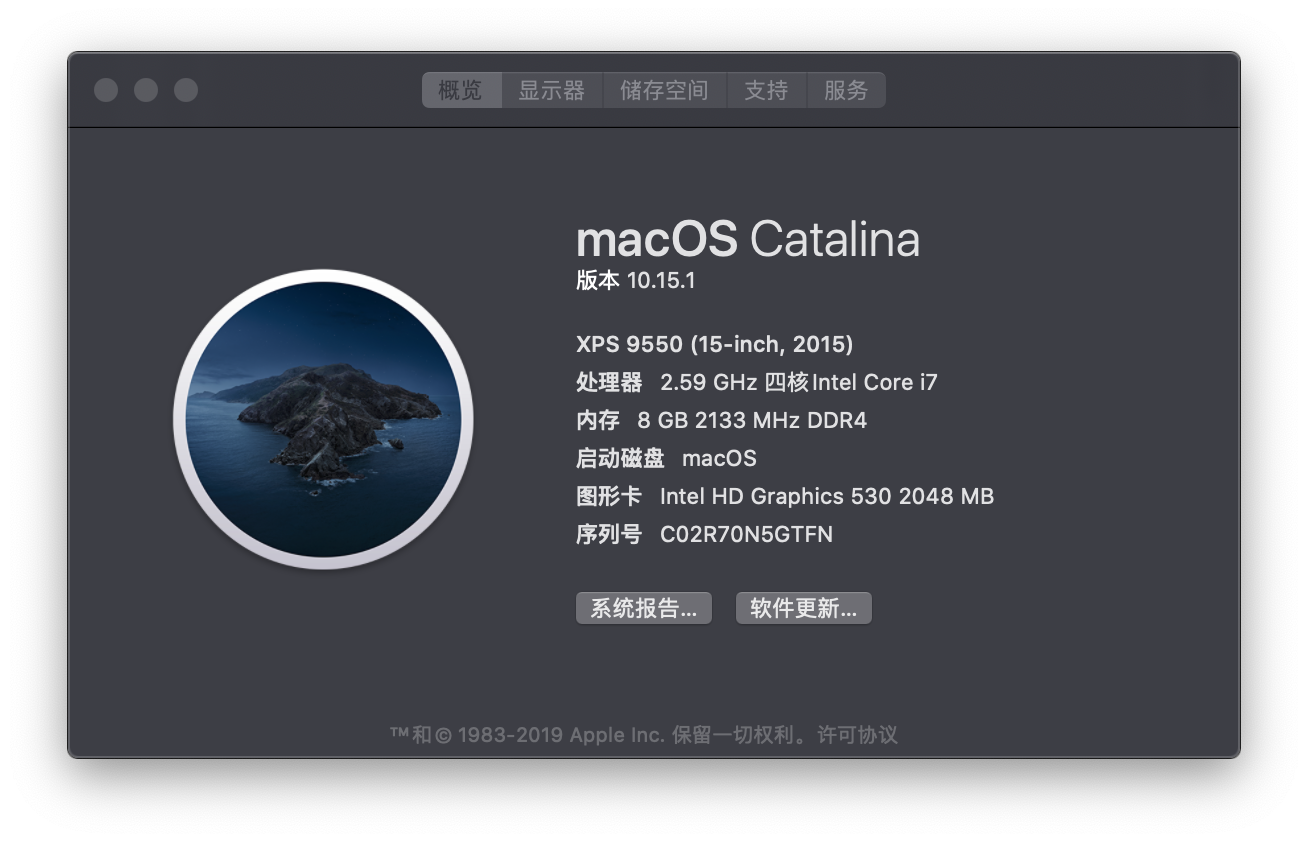
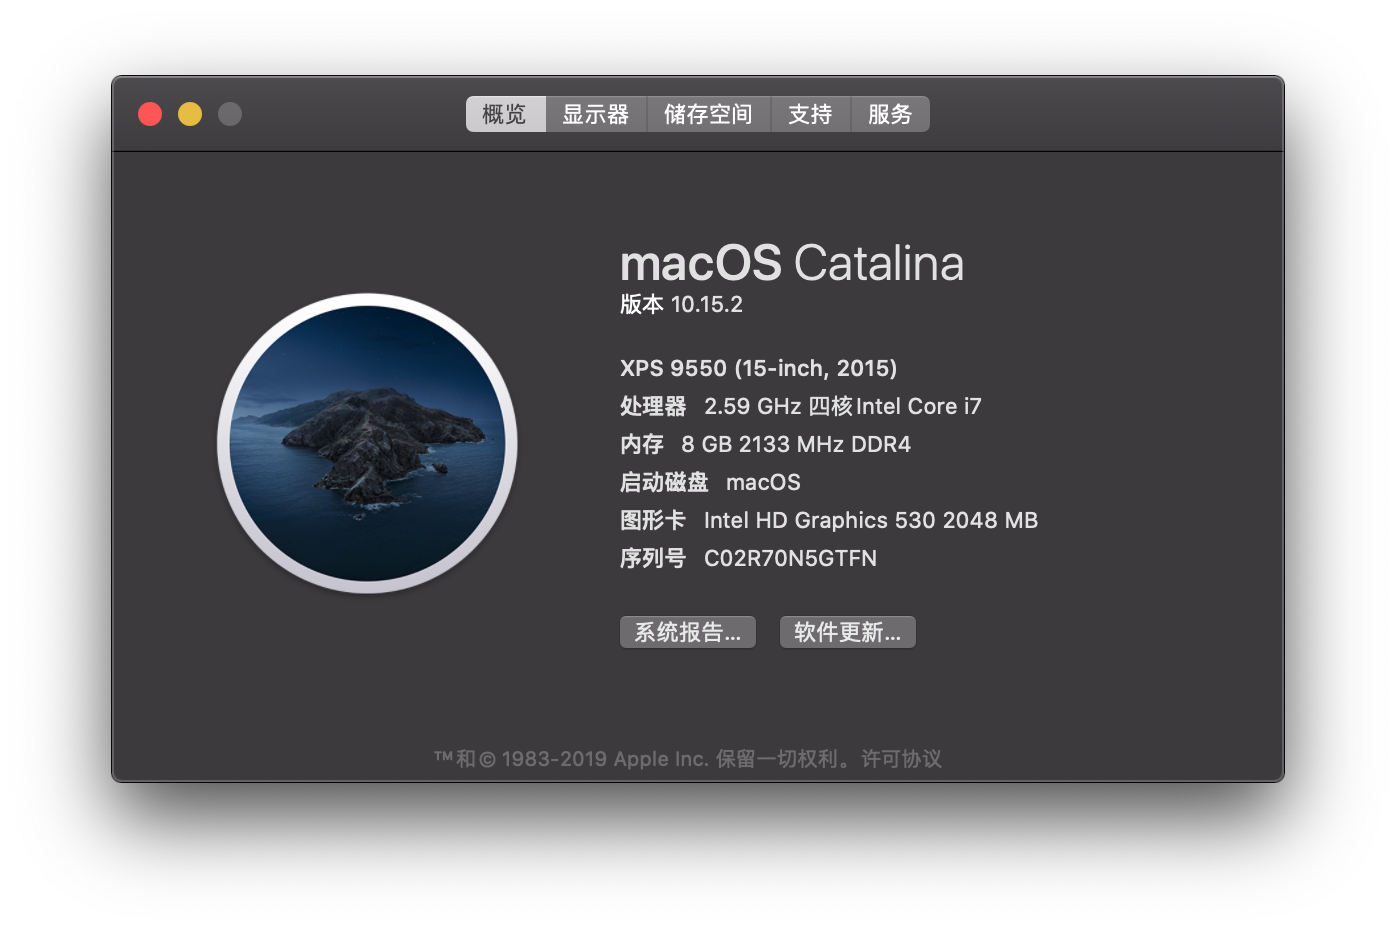
macOS更新到10.15.2成功

diff --git a/README.md b/README.md
@@ -23,7 +23,7 @@ Win10和macOS双系统:
 
 ### 版本:
 
-* macOS:10.15.1(19B88)
+* macOS:10.15.2(19C57)
 * CLOVER:5100
 * AppleALC.kext:1.4.4
 * VirtualSMC.kext:1.0.9
